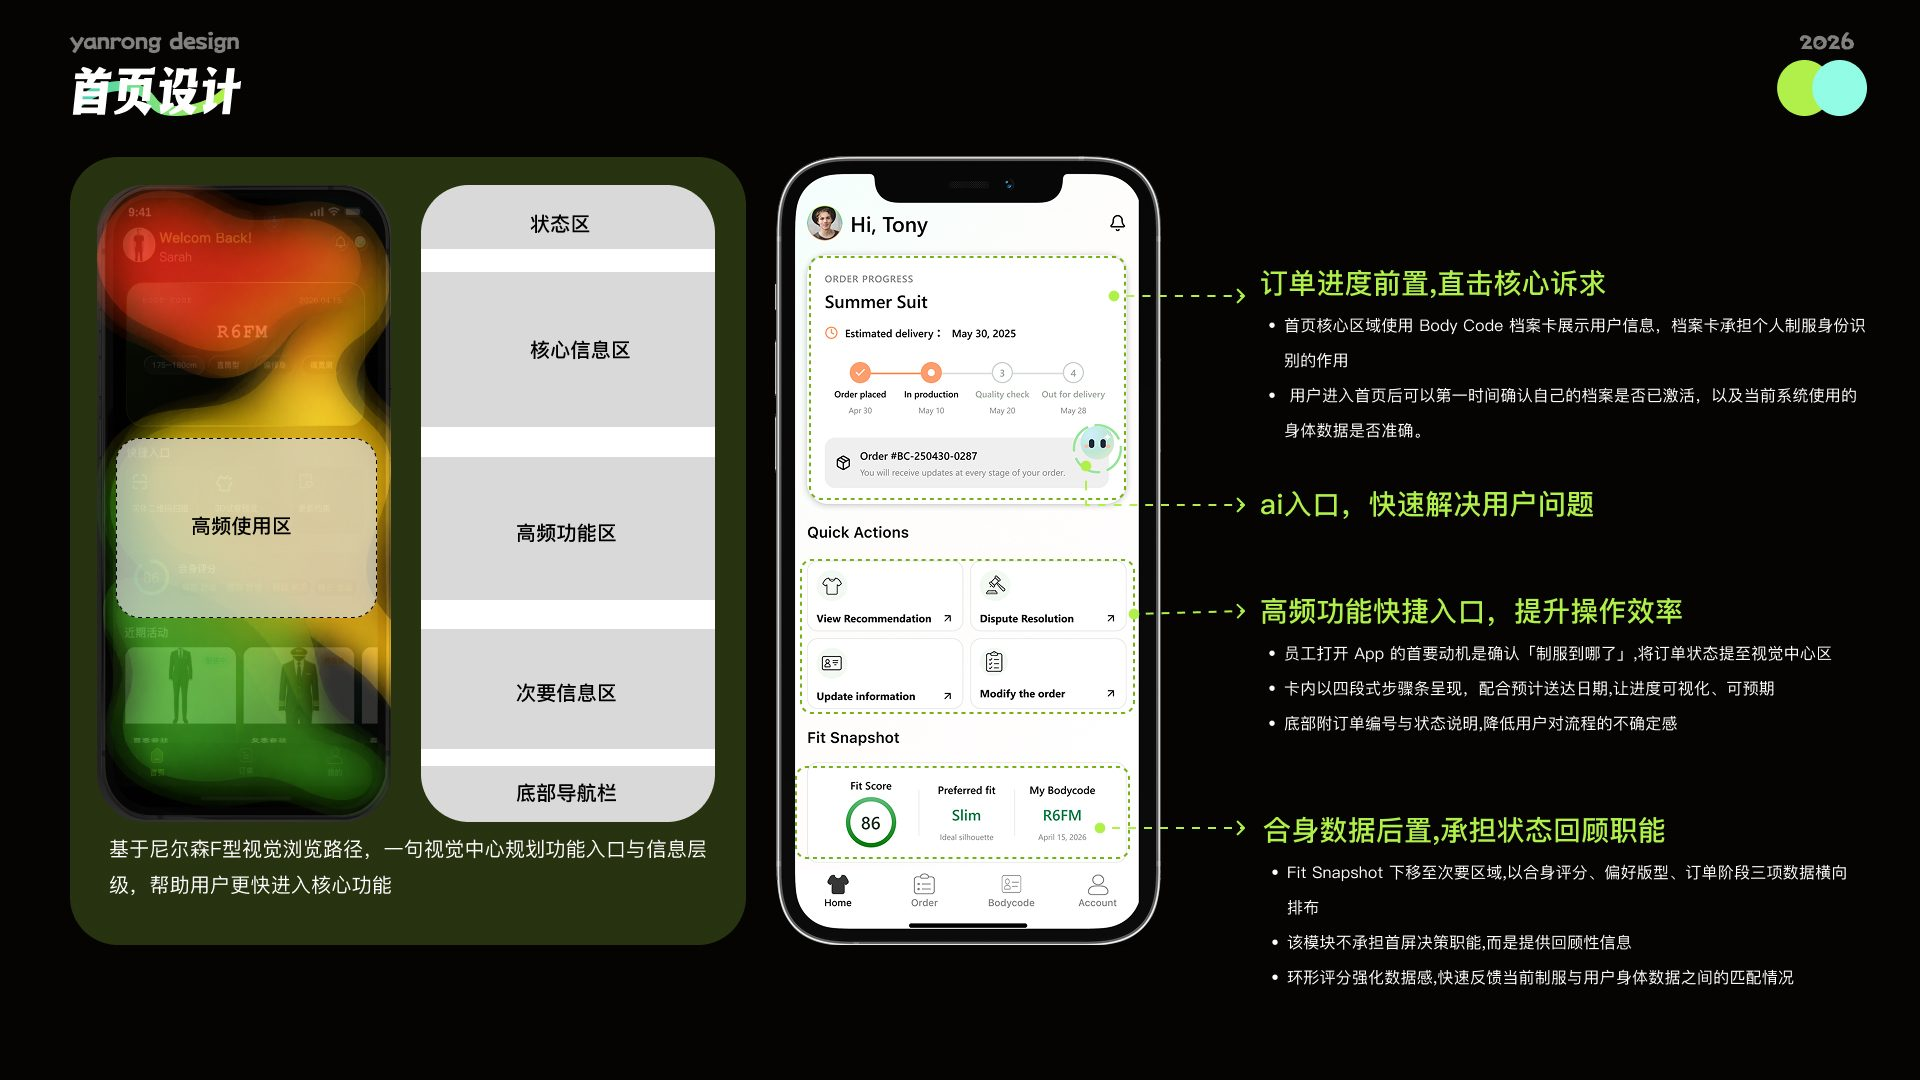
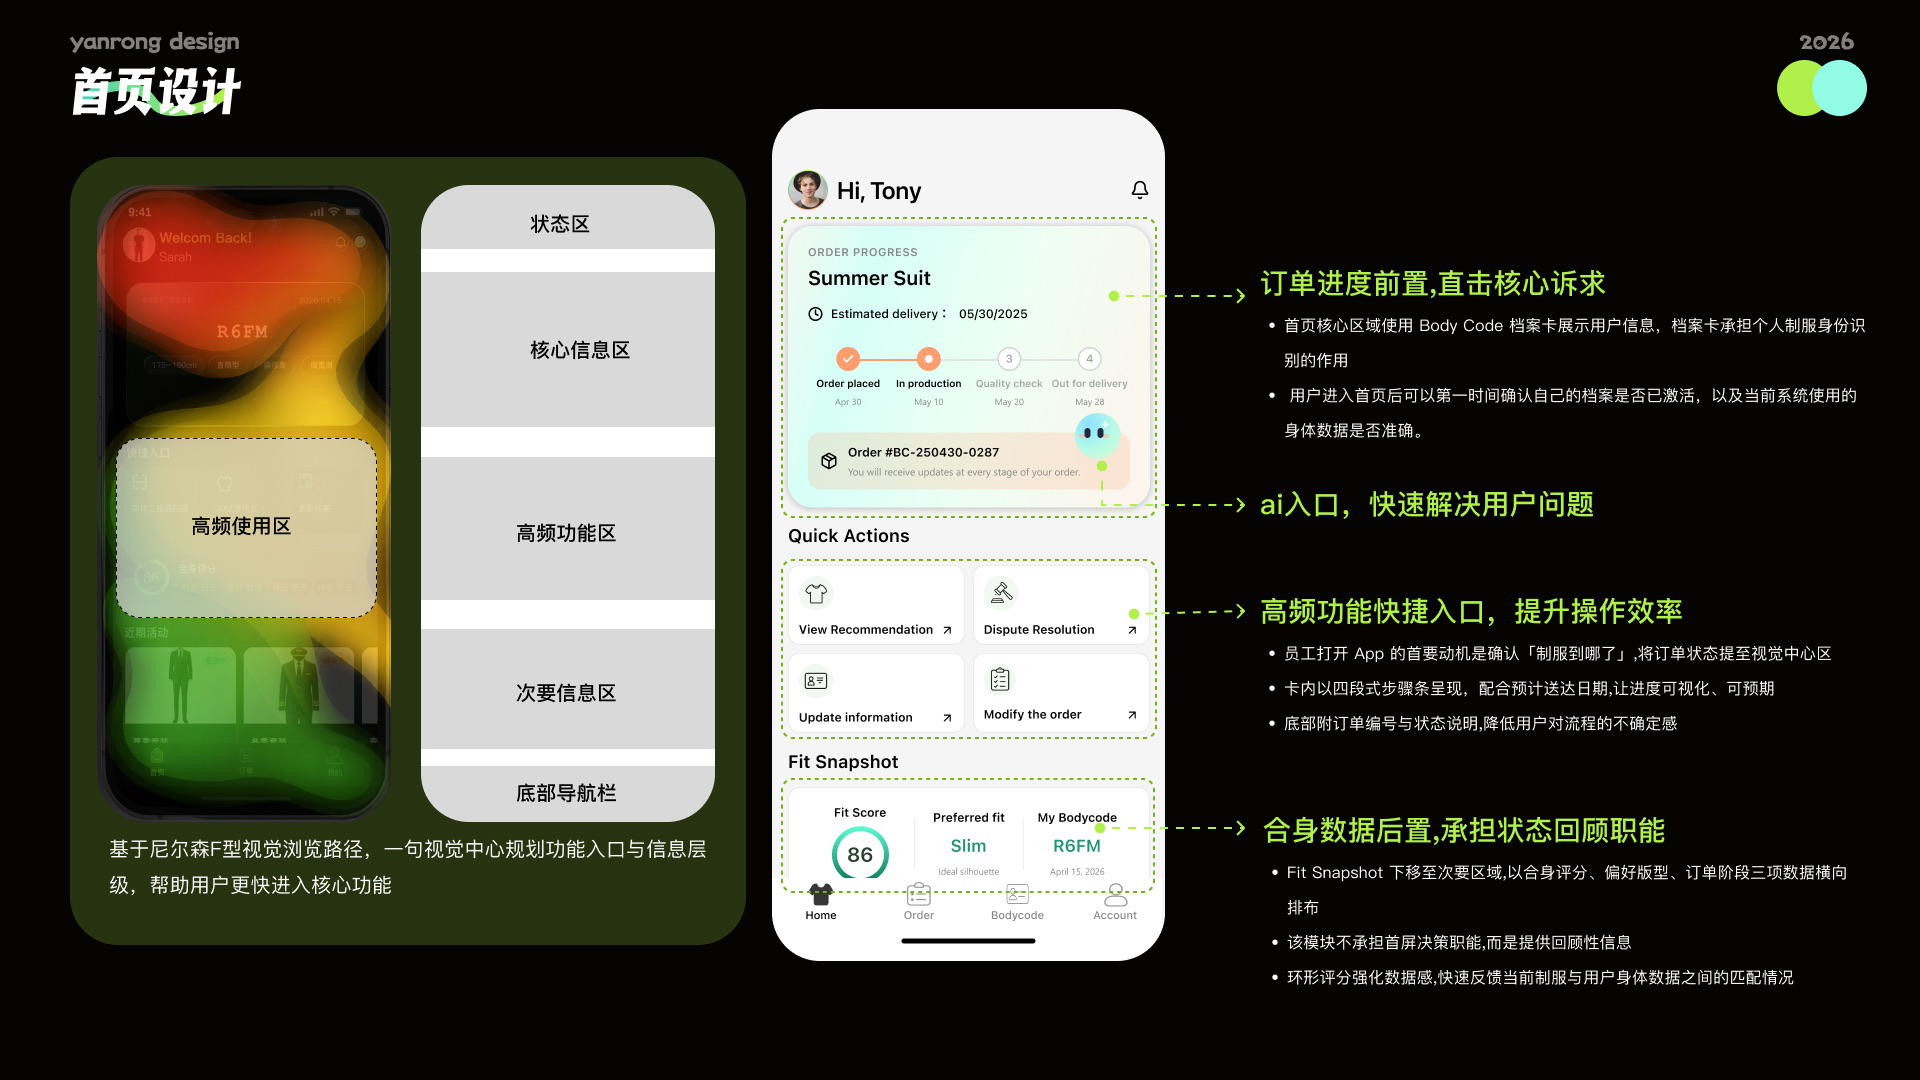
Update the Bodycode home-page slide to the latest version
Replace the 首页设计 page with the new export (014.jpg from the
body code 更新 deck): refreshed device frame, order-progress card and
Quick Actions layout. Bump the image's cache key so returning
visitors get the new file.

diff --git a/project-bodycode.html b/project-bodycode.html
@@ -62,7 +62,7 @@
       <img src="src/projects/bodycode/09.jpg" alt="信息架构" width="1920" height="4153" loading="lazy" decoding="async" />
       <img src="src/projects/bodycode/10.jpg" alt="设计风格" width="1920" height="2108" loading="lazy" decoding="async" />
       <img src="src/projects/bodycode/11.jpg" alt="Onboarding 页面设计" width="1920" height="1777" loading="lazy" decoding="async" />
-      <img src="src/projects/bodycode/12.jpg" alt="首页设计" width="1920" height="1080" loading="lazy" decoding="async" />
+      <img src="src/projects/bodycode/12.jpg?v=2" alt="首页设计" width="1920" height="1080" loading="lazy" decoding="async" />
       <img src="src/projects/bodycode/13.jpg" alt="匹配页面设计" width="1920" height="2132" loading="lazy" decoding="async" />
       <img src="src/projects/bodycode/14.jpg" alt="争议页面设计" width="1920" height="2306" loading="lazy" decoding="async" />
       <img src="src/projects/bodycode/15.jpg" alt="My Bodycode 页面设计" width="1920" height="2200" loading="lazy" decoding="async" />
